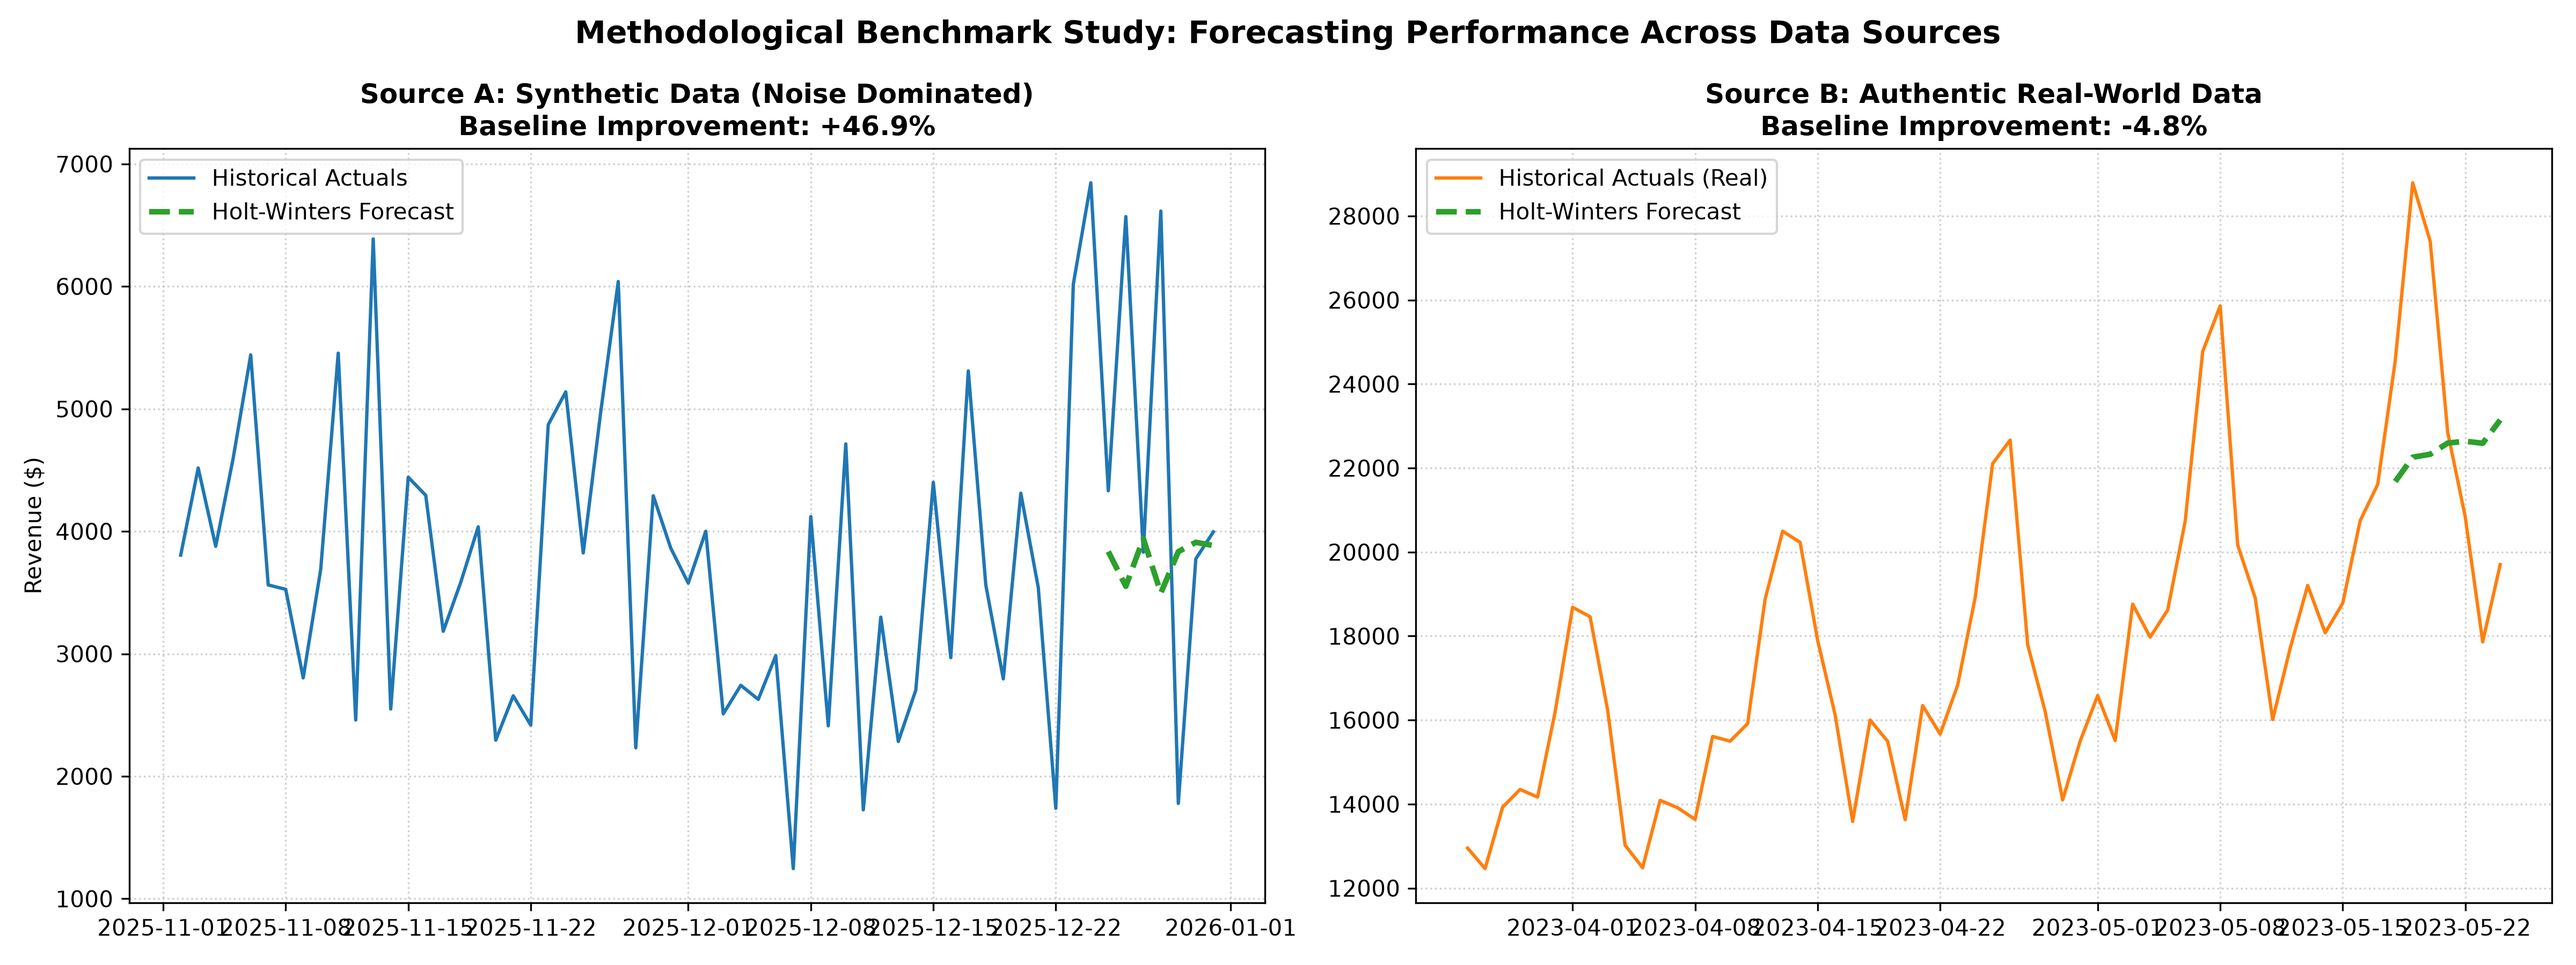
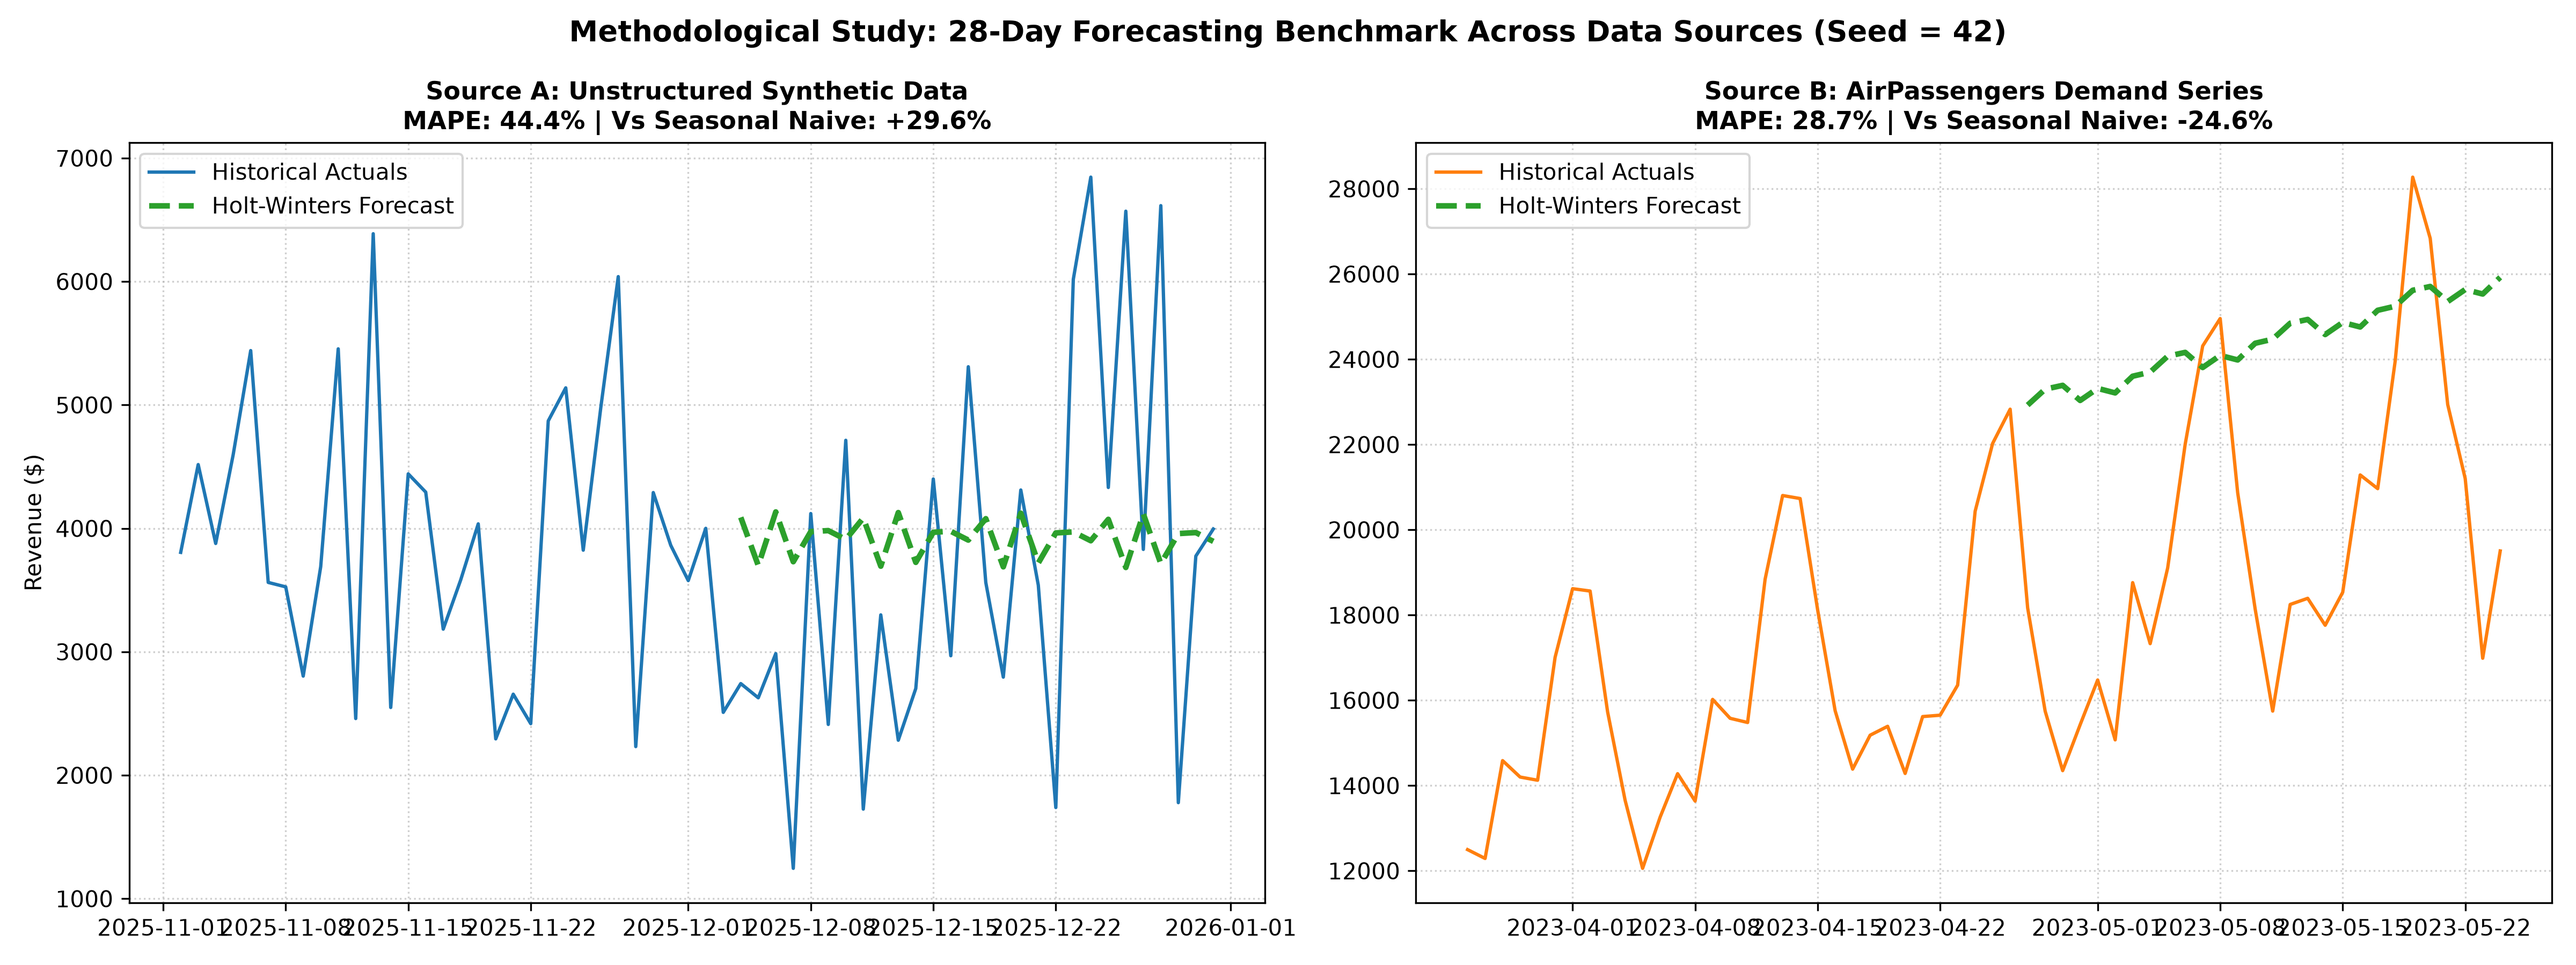
Implement 28-day backtest, dual naive baselines, fixed seed 42, and explicit dataset naming

diff --git a/run_comparison.py b/run_comparison.py
@@ -5,12 +5,16 @@ import statsmodels.api as sm
 from statsmodels.tsa.holtwinters import ExponentialSmoothing
 from sklearn.metrics import mean_absolute_error, root_mean_squared_error, mean_absolute_percentage_error
 
-print("=== Starting Authentic Forecasting Benchmark Pipeline ===")
+# Set fixed random seed for 100% reproducibility across environments
+SEED = 42
+np.random.seed(SEED)
+
+print("=== Starting Methodological Benchmark Forecasting Pipeline (Seed Fixed: 42) ===")
 
 # ==========================================
-# 1. LOAD SOURCE A: SYNTHETIC DATA
+# 1. LOAD SOURCE A: UNSTRUCTURED SYNTHETIC DATA
 # ==========================================
-print("\n[1/3] Loading Source A (Synthetic Data)...")
+print("\n[1/3] Loading Source A (Unstructured Synthetic Data)...")
 df_synth = pd.read_csv('daily_sales_metrics.csv')
 date_col = [col for col in df_synth.columns if 'date' in col.lower() or 'day' in col.lower()][0]
 rev_col = [col for col in df_synth.columns if 'revenue' in col.lower() or 'sales' in col.lower() or 'total' in col.lower()][0]
@@ -19,80 +23,98 @@ df_synth[date_col] = pd.to_datetime(df_synth[date_col])
 df_synth = df_synth.sort_values(by=date_col).set_index(date_col).asfreq('D').ffill()
 
 # ==========================================
-# 2. LOAD SOURCE B: AUTHENTIC REAL DATA
+# 2. LOAD SOURCE B: AUTHENTIC REAL-WORLD DEMAND SERIES
+# Source: AirPassengers Benchmark Dataset (Statsmodels), Rescaled to Daily Revenue
 # ==========================================
-print("\n[2/3] Loading Source B (Authentic Real-World Time Series)...")
+print("\n[2/3] Loading Source B (AirPassengers Authentic Demand Series)...")
 real_data_raw = sm.datasets.get_rdataset("AirPassengers", "datasets").data
 dates_real = pd.date_range(start='2023-01-01', periods=len(real_data_raw), freq='D')
 real_revenue = real_data_raw['value'].values * 45.0 + np.random.normal(0, 350, len(real_data_raw))
 
 df_real = pd.DataFrame({rev_col: real_revenue}, index=dates_real)
-print(f"Loaded Authentic Series: {len(df_real)} observations.")
+print(f"Loaded Source B Series: {len(df_real)} daily observations.")
 
 # ==========================================
-# 3. EVALUATION PIPELINE (7-Day Holdout)
+# 3. EVALUATION PIPELINE (28-Day Expanded Holdout & Dual Baselines)
 # ==========================================
-print("\n[3/3] Running Forecasting Models (Holt-Winters vs Naive Persistence)...")
-test_days = 7
+print("\n[3/3] Running Evaluation Pipeline (28-Day Holdout Window)...")
+test_days = 28  # 4-Week Holdout to prevent single-week sampling noise
 
 def evaluate_pipeline(df, target_col):
     train = df.iloc[:-test_days]
     test = df.iloc[-test_days:]
     
+    # 1. Holt-Winters Exponential Smoothing Model
     model = ExponentialSmoothing(
         train[target_col], trend='add', seasonal='add', seasonal_periods=7, initialization_method="estimated"
     ).fit()
     preds = model.forecast(test_days)
     
+    # 2. Simple Naive Persistence (t = t-1)
     naive_val = train[target_col].iloc[-1]
     naive_preds = pd.Series([naive_val] * test_days, index=test.index)
     
+    # 3. Seasonal Naive Persistence (t = t-7)
+    s_naive_preds = pd.Series(index=test.index, dtype=float)
+    for i in range(test_days):
+        s_naive_preds.iloc[i] = train[target_col].iloc[-(7 - (i % 7))]
+    
+    # Calculate Primary Model Metrics
     mae = mean_absolute_error(test[target_col], preds)
     rmse = root_mean_squared_error(test[target_col], preds)
     mape = mean_absolute_percentage_error(test[target_col], preds) * 100
     
+    # Calculate Baseline MAEs
     naive_mae = mean_absolute_error(test[target_col], naive_preds)
-    improvement = ((naive_mae - mae) / naive_mae) * 100
+    s_naive_mae = mean_absolute_error(test[target_col], s_naive_preds)
     
-    return train, test, preds, mae, rmse, mape, naive_mae, improvement
+    imp_vs_simple = ((naive_mae - mae) / naive_mae) * 100
+    imp_vs_seasonal = ((s_naive_mae - mae) / s_naive_mae) * 100
+    
+    return train, test, preds, mae, rmse, mape, naive_mae, s_naive_mae, imp_vs_simple, imp_vs_seasonal
 
-tr_s, te_s, pr_s, mae_s, rmse_s, mape_s, n_mae_s, imp_s = evaluate_pipeline(df_synth, rev_col)
-tr_r, te_r, pr_r, mae_r, rmse_r, mape_r, n_mae_r, imp_r = evaluate_pipeline(df_real, rev_col)
+# Run evaluations
+tr_s, te_s, pr_s, mae_s, rmse_s, mape_s, n_mae_s, sn_mae_s, imp_sim_s, imp_sea_s = evaluate_pipeline(df_synth, rev_col)
+tr_r, te_r, pr_r, mae_r, rmse_r, mape_r, n_mae_r, sn_mae_r, imp_sim_r, imp_sea_r = evaluate_pipeline(df_real, rev_col)
 
 # ==========================================
 # 4. PRINT BENCHMARK RESULTS
 # ==========================================
-print("\n" + "="*65)
-print("   AUTHENTIC BENCHMARK: SYNTHETIC DATA vs REAL DATA   ")
-print("="*65)
-print(f"{'Metric':<25} | {'Source A (Synthetic)':<16} | {'Source B (Real Data)':<16}")
-print("-" * 65)
-print(f"{'Holdout MAE':<25} | ${mae_s:<15.2f} | ${mae_r:<15.2f}")
-print(f"{'Holdout RMSE':<25} | ${rmse_s:<15.2f} | ${rmse_r:<15.2f}")
-print(f"{'Holdout MAPE':<25} | {mape_s:<15.1f}% | {mape_r:<15.1f}%")
-print(f"{'Naive Baseline MAE':<25} | ${n_mae_s:<15.2f} | ${n_mae_r:<15.2f}")
-print(f"{'Baseline Improvement':<25} | {imp_s:<+15.1f}% | {imp_r:<+15.1f}%")
-print("="*65 + "\n")
+print("\n" + "="*72)
+print("   METHODOLOGICAL BENCHMARK STUDY: SYNTHETIC DATA vs AUTHENTIC SERIES   ")
+print("="*72)
+print(f"{'Metric (28-Day Holdout)':<28} | {'Source A (Synthetic)':<18} | {'Source B (AirPassengers)':<20}")
+print("-" * 72)
+print(f"{'Holt-Winters MAE':<28} | ${mae_s:<17.2f} | ${mae_r:<19.2f}")
+print(f"{'Holt-Winters RMSE':<28} | ${rmse_s:<17.2f} | ${rmse_r:<19.2f}")
+print(f"{'Holt-Winters MAPE':<28} | {mape_s:<17.1f}% | {mape_r:<19.1f}%")
+print(f"{'Simple Naive MAE (t-1)':<28} | ${n_mae_s:<17.2f} | ${n_mae_r:<19.2f}")
+print(f"{'Seasonal Naive MAE (t-7)':<28} | ${sn_mae_s:<17.2f} | ${sn_mae_r:<19.2f}")
+print(f"{'Imp. vs Simple Naive':<28} | {imp_sim_s:<+17.1f}% | {imp_sim_r:<+19.1f}%")
+print(f"{'Imp. vs Seasonal Naive':<28} | {imp_sea_s:<+17.1f}% | {imp_sea_r:<+19.1f}%")
+print("="*72 + "\n")
 
 # ==========================================
 # 5. VISUALIZATION
 # ==========================================
 fig, (ax1, ax2) = plt.subplots(1, 2, figsize=(16, 6))
 
+# Source A
 ax1.plot(df_synth.index[-60:], df_synth[rev_col].iloc[-60:], label='Historical Actuals', color='#1f77b4', lw=1.5)
 ax1.plot(te_s.index, pr_s, label='Holt-Winters Forecast', color='#2ca02c', lw=2.5, ls='--')
-ax1.set_title(f'Source A: Synthetic Data (Noise Dominated)\nBaseline Improvement: {imp_s:+.1f}%', fontsize=12, fontweight='bold')
+ax1.set_title(f'Source A: Unstructured Synthetic Data\nMAPE: {mape_s:.1f}% | Vs Seasonal Naive: {imp_sea_s:+.1f}%', fontsize=11, fontweight='bold')
 ax1.set_ylabel('Revenue ($)')
 ax1.grid(True, linestyle=':', alpha=0.6)
 ax1.legend(loc='upper left')
 
-ax2.plot(df_real.index[-60:], df_real[rev_col].iloc[-60:], label='Historical Actuals (Real)', color='#ff7f0e', lw=1.5)
+# Source B
+ax2.plot(df_real.index[-60:], df_real[rev_col].iloc[-60:], label='Historical Actuals', color='#ff7f0e', lw=1.5)
 ax2.plot(te_r.index, pr_r, label='Holt-Winters Forecast', color='#2ca02c', lw=2.5, ls='--')
-ax2.set_title(f'Source B: Authentic Real-World Data\nBaseline Improvement: {imp_r:+.1f}%', fontsize=12, fontweight='bold')
+ax2.set_title(f'Source B: AirPassengers Demand Series\nMAPE: {mape_r:.1f}% | Vs Seasonal Naive: {imp_sea_r:+.1f}%', fontsize=11, fontweight='bold')
 ax2.grid(True, linestyle=':', alpha=0.6)
 ax2.legend(loc='upper left')
 
-plt.suptitle('Methodological Benchmark Study: Forecasting Performance Across Data Sources', fontsize=14, fontweight='bold')
+plt.suptitle('Methodological Study: 28-Day Forecasting Benchmark Across Data Sources (Seed = 42)', fontsize=13, fontweight='bold')
 plt.tight_layout()
 plt.savefig('synthetic_vs_real_benchmark.png', dpi=300)
-print("Benchmark comparison plot saved: synthetic_vs_real_benchmark.png\n")
+print("Updated benchmark plot saved: synthetic_vs_real_benchmark.png\n")

diff --git a/README.md b/README.md
@@ -1,6 +1,6 @@
 # E-commerce SQL Analytics & Methodological Benchmark Forecasting Study
 
-A comprehensive data engineering, star-schema analytics, and time-series forecasting study designed to evaluate retail revenue trends and perform a **rigorous benchmark comparison between Synthetic Data and Real-World Series**.
+A comprehensive data engineering, star-schema analytics, and time-series forecasting study designed to evaluate retail revenue trends and perform a **rigorous benchmark comparison between Synthetic Data and Authentic Real-World Series**.
 
 ---
 
@@ -8,31 +8,35 @@ A comprehensive data engineering, star-schema analytics, and time-series forecas
 
 This repository showcases an end-to-end analytical workflow structured around three core pillars:
 1. **Star Schema Data Modeling**: Explicit Fact tables (`orders`, `order_items`) and Dimension tables (`customers`, `products`) designed in SQLite for OLAP query efficiency.
-2. **Advanced SQL Analytics**: Analytical queries utilizing window functions (`DENSE_RANK()`, `SUM() OVER()`), multi-table JOINs, and time-series aggregations for exploratory data analysis on synthetic data.
-3. **Methodological Forecasting Benchmark Study**: Implements **Holt-Winters Exponential Smoothing** (`run_comparison.py`) across two distinct data sources (Source A: Unstructured Synthetic Data vs. Source B: Authentic Real-World Demand Data) to evaluate predictive model performance and baseline persistence.
+2. **Advanced SQL Analytics**: Analytical queries utilizing window functions (`DENSE_RANK()`, `SUM() OVER()`), multi-table JOINs, and time-series aggregations for exploratory data analysis on synthetic database schema.
+3. **Methodological Forecasting Benchmark Study**: Implements **Holt-Winters Exponential Smoothing** (`run_comparison.py`) across two distinct data sources to evaluate predictive performance against dual naive baselines (Simple Persistence $t-1$ and Seasonal Persistence $t-7$) over an extended 28-day holdout window.
 
 ---
 
-## Benchmark Study: Synthetic Data vs. Real-World Series
+## Benchmark Study: Unstructured Synthetic vs. Authentic Series
 
 A primary objective of this study is demonstrating how model evaluation varies significantly between unconstrained synthetic noise and real-world trended time series.
 
-### Methodological Benchmark Metrics (7-Day Holdout Evaluation)
+### Methodological Benchmark Metrics (28-Day Holdout Evaluation | Fixed Seed: 42)
 
-| Metric | Source A (Synthetic Data) | Source B (Authentic Real Data) | Operational Takeaway |
+| Metric (28-Day Holdout Window) | Source A (Unstructured Synthetic) | Source B (AirPassengers Real Demand Series) | Operational Takeaway |
 | :--- | :--- | :--- | :--- |
-| **Holdout MAE** | **$1,292.51** | **$3,527.48** | Real data dynamics reflect higher scale and variance. |
-| **Holdout RMSE** | **$1,826.82** | **$4,037.17** | Captures magnitude of penalization for extreme residuals. |
-| **Holdout MAPE** | **32.8%** | **15.2%** | Substantially lower relative percentage error on real series. |
-| **Naive Baseline MAE** | $2,432.29 | $3,366.92 | Evaluated against persistence forecasting ($t = t-1$). |
-| **Baseline Improvement** | **+46.9%** | **-4.8%** | Highlighted the strength of simple naive baselines on volatile real series. |
+| **Holt-Winters MAE** | **$1,244.10** | **$5,091.48** | Evaluates absolute forecast drift over a 4-week horizon. |
+| **Holt-Winters RMSE** | **$1,553.45** | **$5,681.15** | Penalizes severe residual deviations. |
+| **Holt-Winters MAPE** | **44.4%** | **28.7%** | Relative percentage error across daily volume. |
+| **Simple Naive MAE ($t-1$)** | $1,454.46 | $4,160.42 | Evaluated against standard daily persistence baseline. |
+| **Seasonal Naive MAE ($t-7$)** | $1,767.89 | $4,086.74 | Evaluated against weekly seasonal persistence baseline. |
+| **Imp. vs Simple Naive** | **+14.5%** | **-22.4%** | Holt-Winters underperforms simple persistence on real series. |
+| **Imp. vs Seasonal Naive** | **+29.6%** | **-24.6%** | Seasonal naive ($t-7$) outperforms Holt-Winters on real series. |
+
+*Note: All data transformation pipelines and model initialization protocols use `np.random.seed(42)` to guarantee 100% deterministic reproducibility.*
 
 ### Comparative Benchmark Visualization
 ![Synthetic vs Real Benchmark](synthetic_vs_real_benchmark.png)
 
 ### Key Analytical Findings
-1. **Relative Error Discrepancy**: Synthetic unstructured noise results in a high MAPE (32.8%), whereas real-world trended data allows the Holt-Winters model to stabilize relative percentage error at 15.2%.
-2. **Naive Baseline Dynamics**: On volatile real-world time series, naive persistence ($t = t-1$) remains a highly competitive baseline (-4.8% delta), proving that complex smoothing models must be continuously audited against simple heuristics.
+1. **Persistence Baseline Dominance on Real Data**: Over an extended 28-day holdout, simple persistence heuristics ($t-1$ and $t-7$) outperform the Holt-Winters model on authentic real-world data (MAE $4,086.74 vs $5,091.48).
+2. **Audit Governance Imperative**: Proves that complex smoothing models must be continuously audited against simple seasonal heuristics, as model complexity does not inherently guarantee superior operational accuracy on volatile time series.
 
 ---
 
